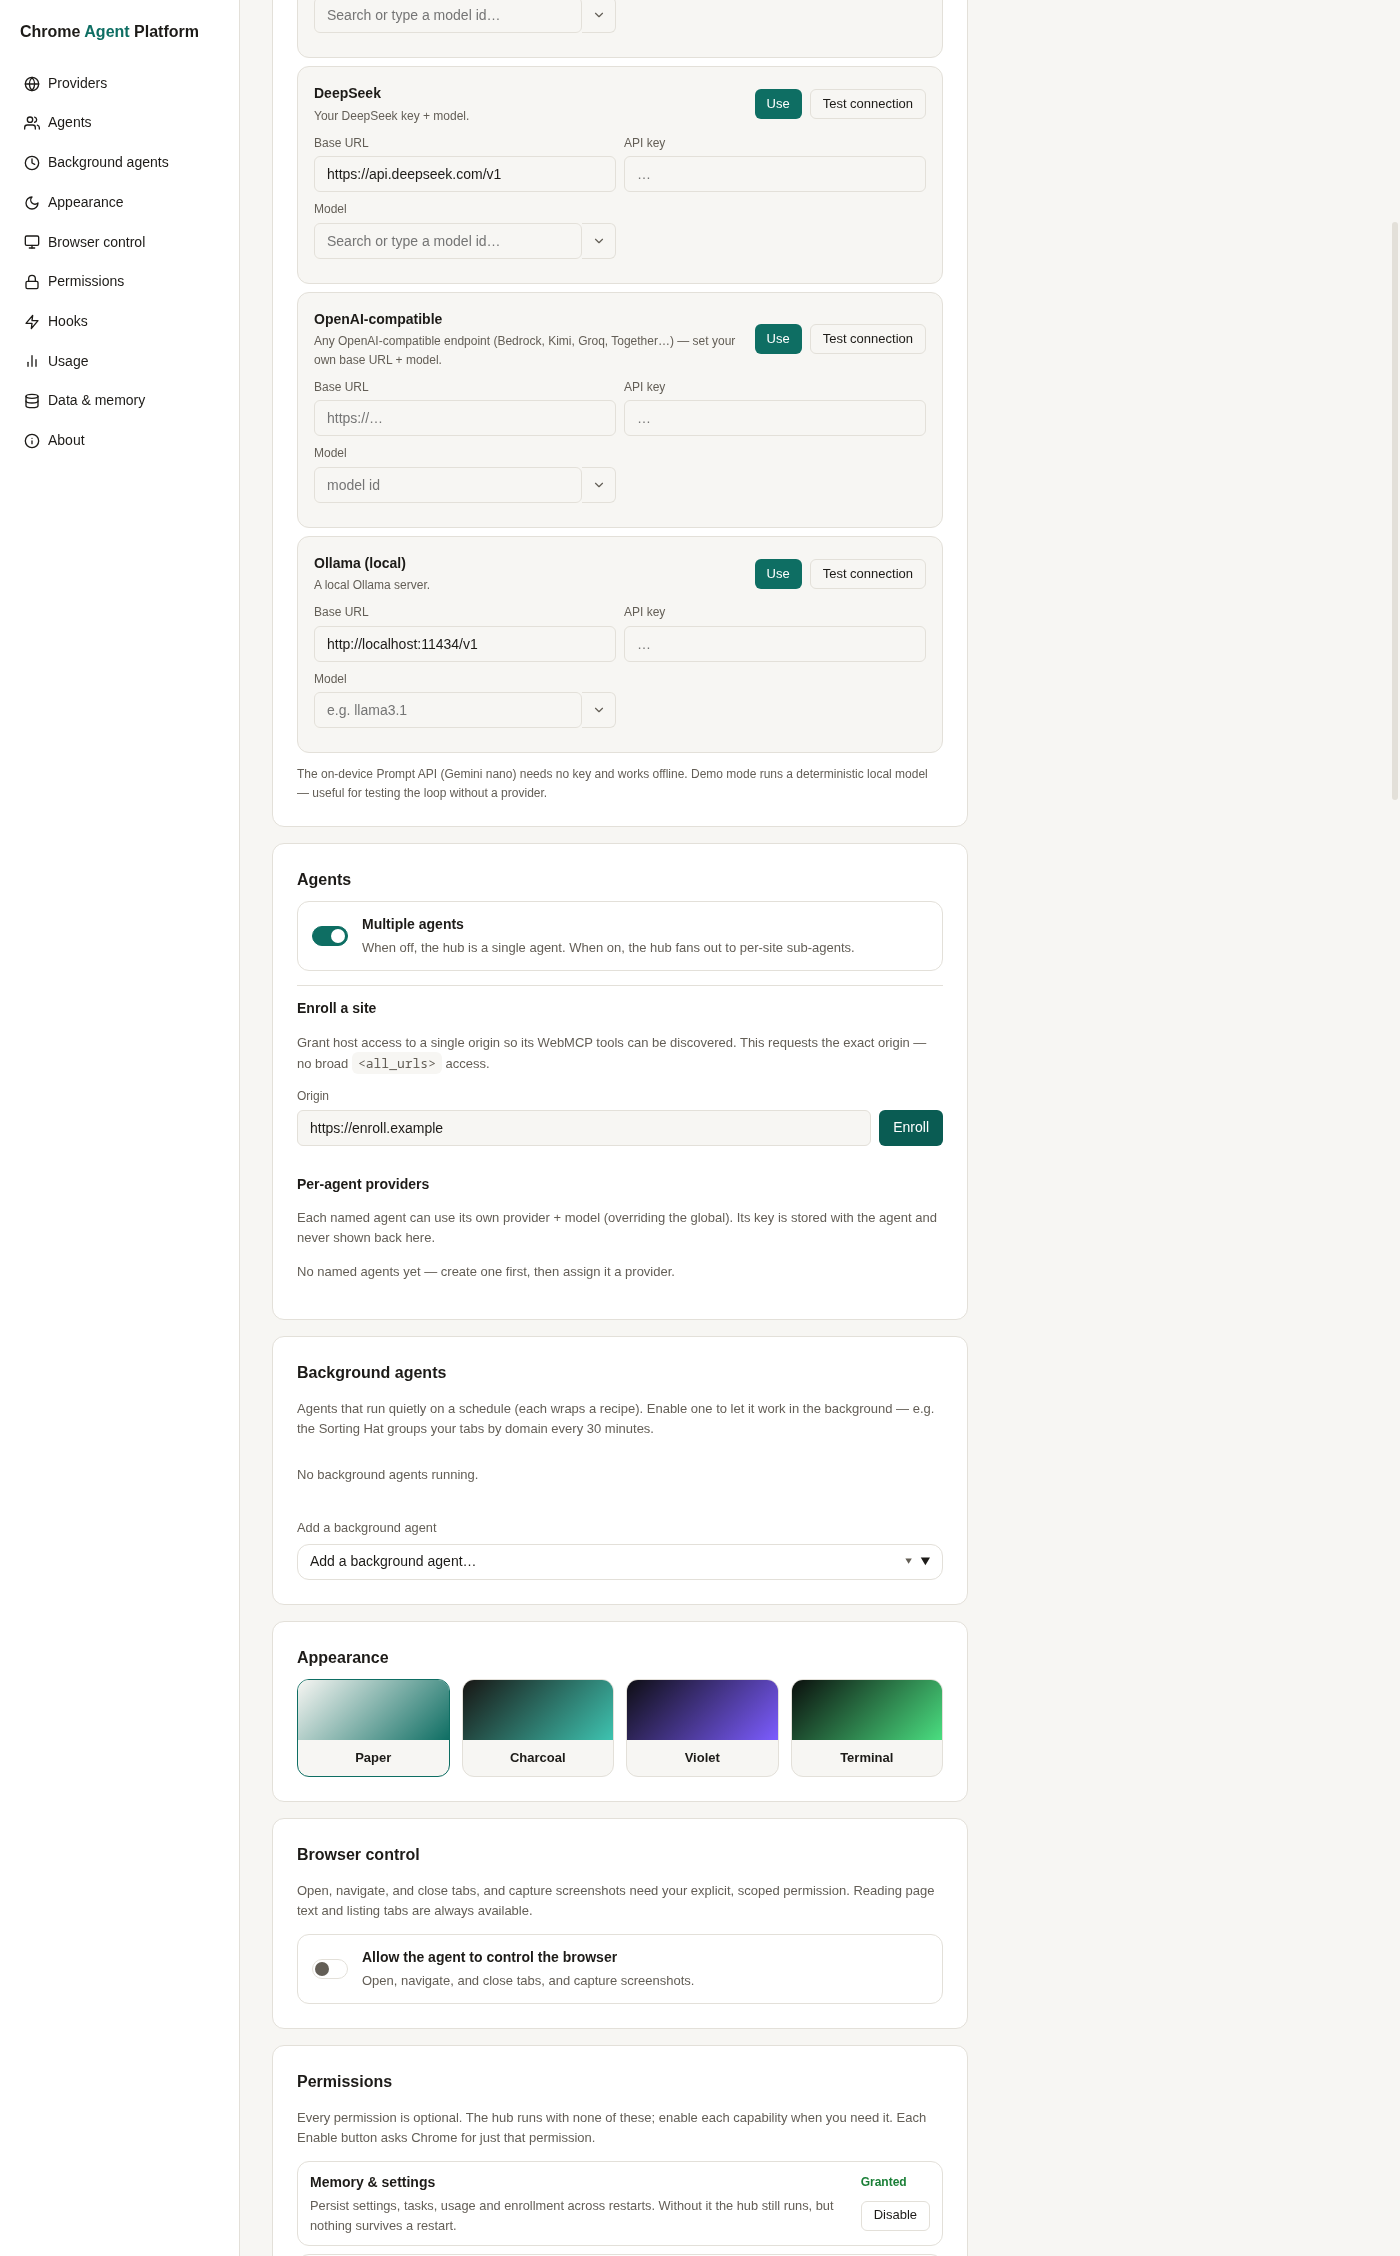
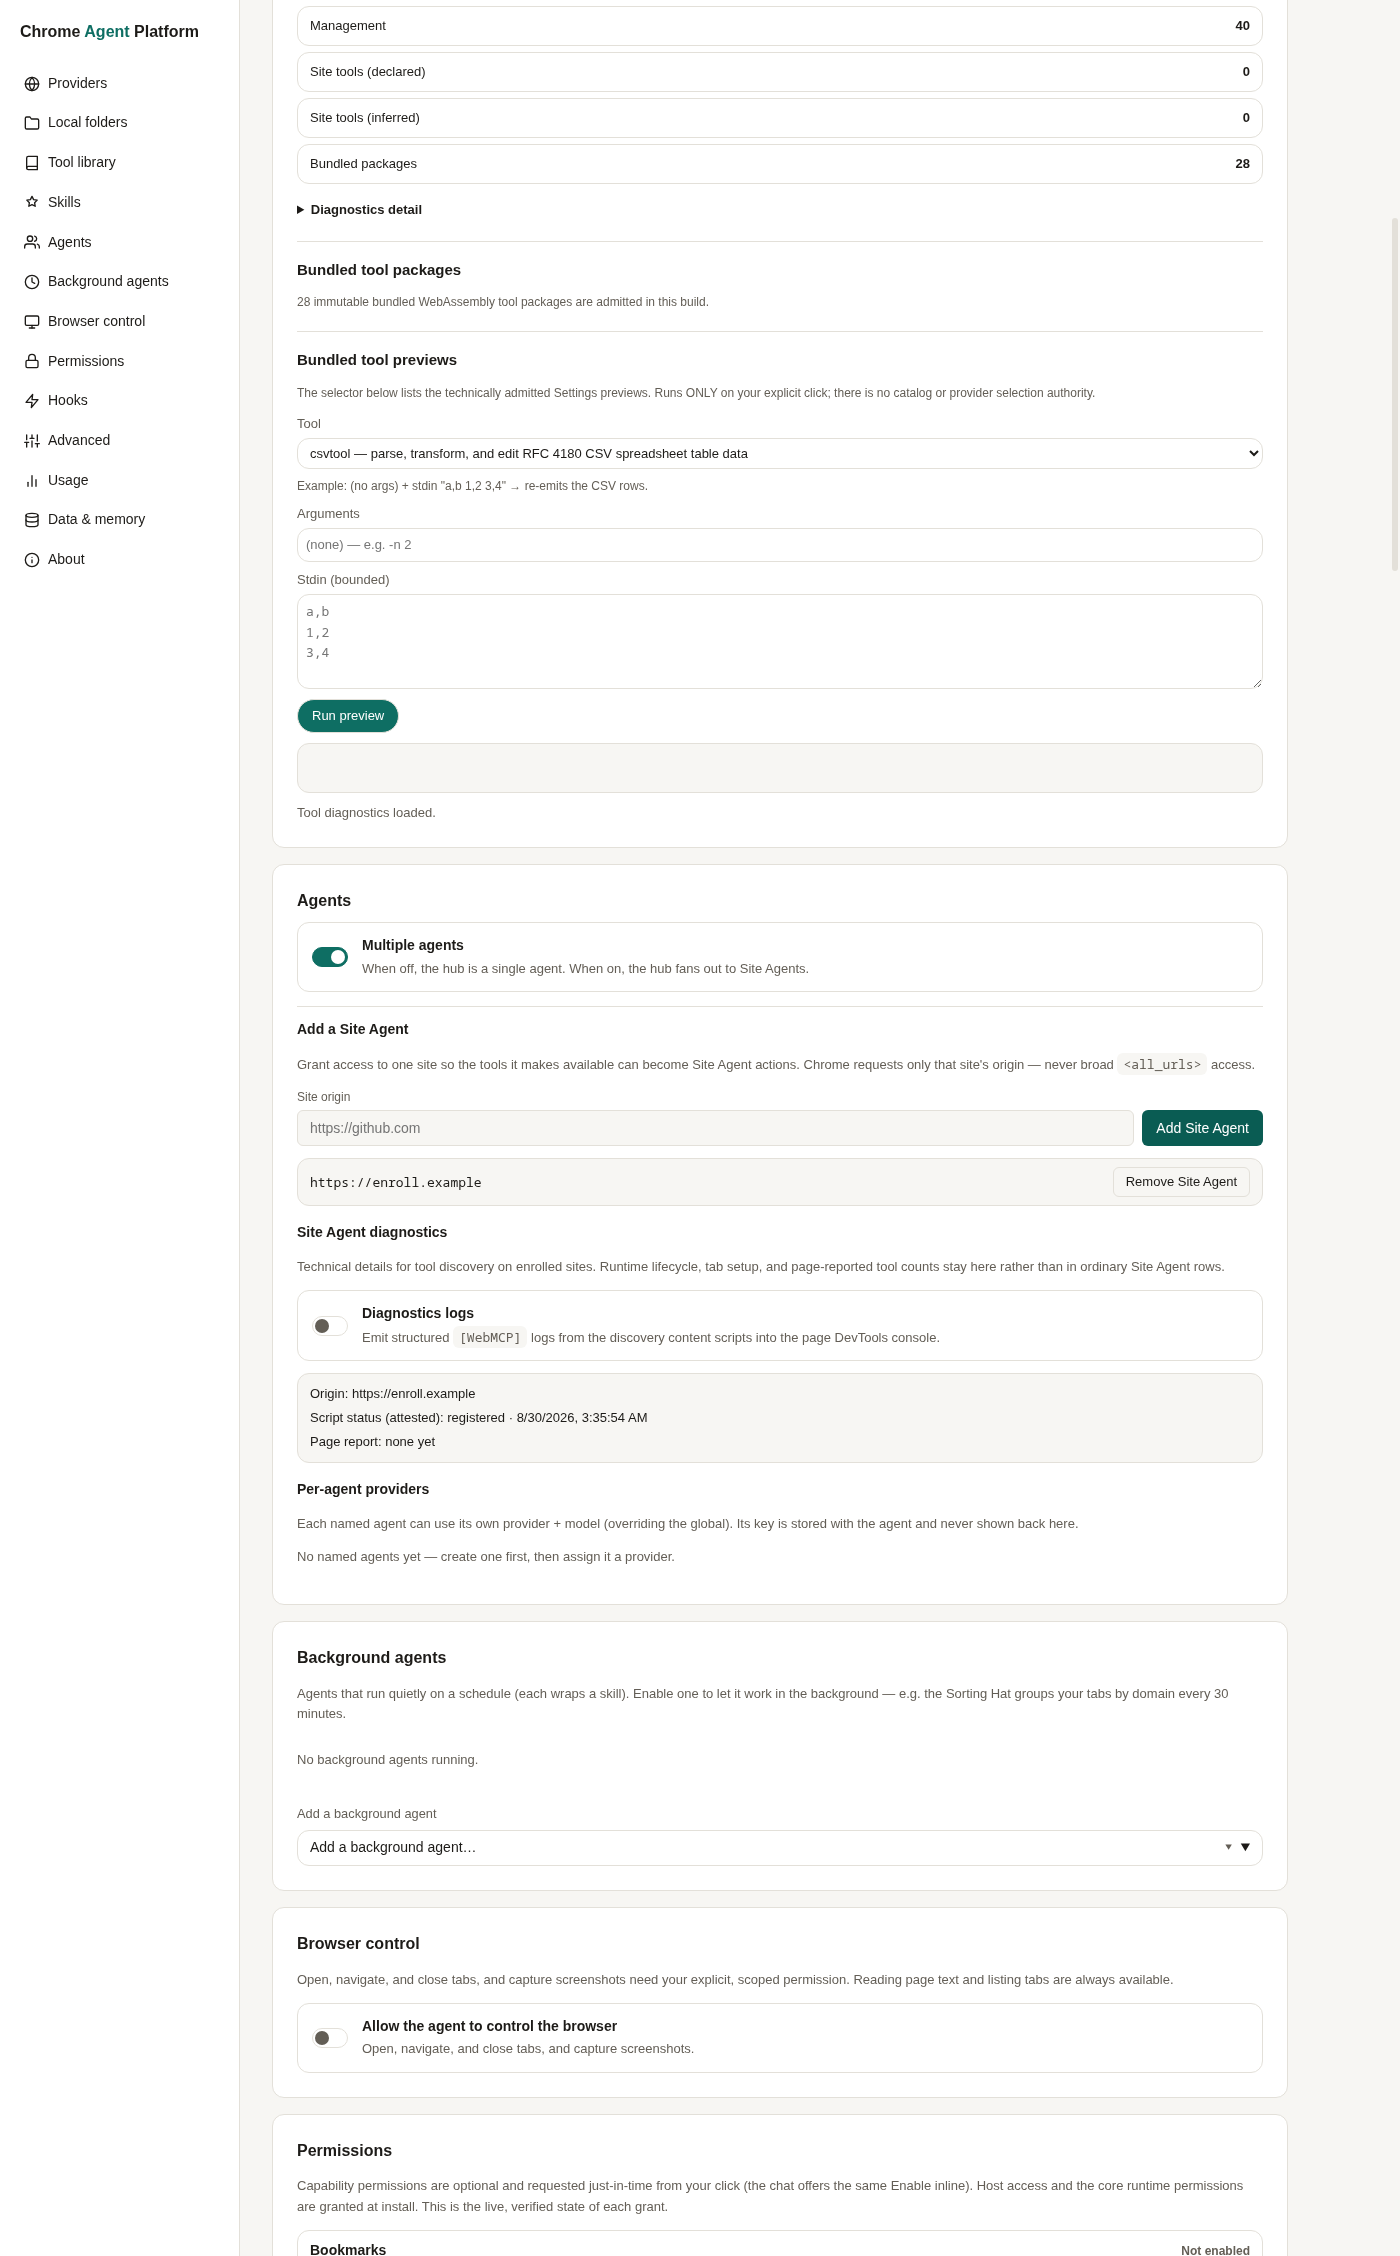
Refresh the permissions journey screenshot

diff --git a/extension/lib/bundled-inventory-data.js b/extension/lib/bundled-inventory-data.js
@@ -2,7 +2,7 @@
 // Rebuild: node scripts/build-bundled-tool-packages.mjs --evidence-root <dir>
 export const BUNDLED_INVENTORY = Object.freeze({
  "schemaVersion": 1,
- "release": "0.2.413",
+ "release": "0.2.414",
  "signer": {
   "lane": "bundled",
   "keyId": "cap-bundled-release"

diff --git a/CHANGELOG.md b/CHANGELOG.md
@@ -1,5 +1,8 @@
 # Changelog
 
+## [0.2.414] — 2026-08-30
+- Refresh the permissions journey screenshot
+
 ## [0.2.413] — 2026-08-30
 - Finish the optional permissions browser journey
 
